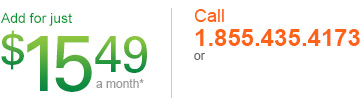
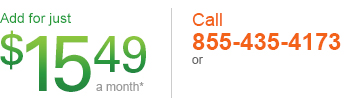
updating the price point graphic
adding dashes

Changed region(s): [[0.0, 0.297, 0.4278, 0.9208], [0.5194, 0.0891, 1.0, 0.6535], [0.0, 0.1188, 0.2139, 0.2673]]

diff --git a/prism/existing/index.html b/prism/existing/index.html
@@ -366,7 +366,7 @@
 					<a href="https://eam.centurylink.com/eam/login.do" target="_blank" clicktrack="ctl|rsd|shop|iptv_retention|pre_id_learn|top|link|position2|my_account">Manage My Account</a>
 				</p>
 
-				<p class="topPhone">Call 1.855.435.4173</p><!--<p class="chatOnline contact"><a href="https://sncare.centurylink.com/netagent/cimlogin.aspx?questid=03E78ACF-231C-4588-B076-CA693E399261&portid=53BB7F04-97AF-4B41-A9C7-C4BF7A5AC5DB" onclick="javascript:window.open(this.href,'Chat','height=550,width=650,left=100,top=50,resizable=no,scrollbars=yes,toolbar=no,status=no');return false;" clicktrack="ctl|rsd|shop|iptv_retention|pre_id_learn|top|link|position3|chat">Chat Online Now</a></p>-->
+				<p class="topPhone">Call 855-435-4173</p><!--<p class="chatOnline contact"><a href="https://sncare.centurylink.com/netagent/cimlogin.aspx?questid=03E78ACF-231C-4588-B076-CA693E399261&portid=53BB7F04-97AF-4B41-A9C7-C4BF7A5AC5DB" onclick="javascript:window.open(this.href,'Chat','height=550,width=650,left=100,top=50,resizable=no,scrollbars=yes,toolbar=no,status=no');return false;" clicktrack="ctl|rsd|shop|iptv_retention|pre_id_learn|top|link|position3|chat">Chat Online Now</a></p>-->
 									<div class="chatBtn" id="chatBtn">
 						<div id="chat-centurylink-residential-customer-support-prism-existing"></div>
 					</div>
@@ -618,7 +618,7 @@
 												<li><span class="left-key">TEC</span><span class="right-key">Typical Energy Consumption</span></li>
 											</ul>
 										</div>
-										<p class="did-you-know-cta">To find out more about any of the items above, <strong>call 1.855.435.4173</strong></p>
+										<p class="did-you-know-cta">To find out more about any of the items above, <strong>call 855-435-4173</strong></p>
 									</div>
 									<div class="corners outsideW cBottom">
 										<span class="corner cLeft">   </span>
@@ -763,7 +763,7 @@
 				<p class="copyright">&copy; 2014 CenturyLink. All Rights Reserved. The name CenturyLink and the pathways logo are trademarks of CenturyLink.</p>
 			</div>
 			<div class="support">
-				<p style="color:#999999;">Call us at: 1.855.435.4173</p>
+				<p style="color:#999999;">Call us at: 855-435-4173</p>
 				<ul class="nav">
 					<li class="first"><a href="http://storelocator.centurylinkapps.com" target="_blank" clicktrack="ctl|rsd|shop|iptv_retention|pre_id_learn|footer|link|position10|store">Find a Store</a></li>
 					<li class="last"><a href="http://www.centurylink.com/Pages/Support/ContactUs/" target="_blank" clicktrack="ctl|rsd|shop|iptv_retention|pre_id_learn|footer|link|position11|contact_us">Contact Us</a></li>
@@ -807,7 +807,7 @@
 				<div class="childWrap">
 					<h2>Enjoy HBO<sup class="special-sup">&reg;</sup>. Anytime. Anywhere.</h2>
 					<h3>Plus, with HBO ON DEMAND<sup class="special-sup">&reg;</sup> and HBO GO<sup class="special-sup">&reg;</sup>, you have<br>access to 14 HBO<sup class="special-sup">&reg;</sup> channels, all in HD.**</h3>
-					<div class="price sixteen99-tfn">Add for just $16.99 a month* Call 1.855.435.4173 to order.</div>
+					<div class="price sixteen99-tfn">Add for just $16.99 a month* Call 855-435-4173 to order.</div>
 					<a href="#ZAM" class="modal-trigger close-color-box" id="prism-hbo-trigger" clicktrack="ctl|rsd|shop|iptv_retention|pre_id_learn|hbo|button|chat">Chat to Order</a>
 					<p class="blurb">HBO<sup class="special-sup">&reg;</sup> gives you hit original series, Hollywood blockbusters, sports and so much more. Plus, you have the ability to enjoy HBO<sup class="special-sup">&reg;</sup> whenever and wherever you want with HBO On Demand<sup class="special-sup">&reg;</sup> and HBO GO<sup class="special-sup">&reg;</sup>, both of which are included when you add HBO<sup class="special-sup">&reg;</sup> to your Prism<sup>&trade;</sup> TV service. So go ahead, make your own schedule. And be sure to catch hit films like <em>The Great Gatsby</em> and <em>Man of Steel</em>, plus HBO&rsquo;s newest original series <em>Silicon Valley</em>.</p>
 					<p class="disclaimer-left">**Subscription to HD service required to view HD programming.<br>HD availability varies by area.</p>
@@ -819,7 +819,7 @@
 				<div class="childWrap">
 					<h2>Take your entertainment to the MAX.</h2>
 					<h3>Enjoy all 12 CINEMAX<sup class="special-sup">&reg;</sup> channels and CINEMAX ON DEMAND<sup class="special-sup">&reg;</sup>.</h3>
-					<div class="price fifteen49-alt2">Add for just $15.49 a month* Call 1.855.435.4173 to order.</div>
+					<div class="price fifteen49-alt2">Add for just $15.49 a month* Call 855-435-4173 to order.</div>
 					<a href="#ZAM" class="modal-trigger close-color-box" id="prism-max-trigger" clicktrack="ctl|rsd|shop|iptv_retention|pre_id_learn|cinemax|button|chat">Chat to Order</a>
 					<p class="blurb">With CINEMAX<sup class="special-sup">&reg;</sup> you get the best Hollywood hits, action-packed original series and behind-the-scenes exclusives &ndash; all in True HD.** From exclusive premieres on the flagship station to first-rate programming on 7 additional genre-focused multiplex channels, CINEMAX<sup class="special-sup">&reg;</sup> delivers more of the entertainment you deserve, including hit movies like <em>The Conjuring</em>.</p>
 					<p class="disclaimer-left">**Subscription to HD service required to view HD programming. HD availability varies by area.</p>
@@ -831,7 +831,7 @@
 				<div class="childWrap">
 					<h2>Great entertainment starts with SHOWTIME<sup class="special-sup">&reg;</sup>.</h2>
 					<h3>Get all 21 SHOWTIME<sup class="special-sup">&reg;</sup> channels*, SHOWTIME Anytime<sup class="special-sup">&reg;</sup>, and SHOWTIME On Demand<sup class="special-sup">&reg;</sup>.</h3>
-					<div class="price fifteen49-alt2">Add for just $15.49 a month* Call 1.855.435.4173 to order.</div>
+					<div class="price fifteen49-alt2">Add for just $15.49 a month* Call 855-435-4173 to order.</div>
 					<a href="#ZAM" class="modal-trigger close-color-box" id="prism-sho-trigger" clicktrack="ctl|rsd|shop|iptv_retention|pre_id_learn|showtime|button|chat">Chat to Order</a>
 					<p class="blurb">If you want edge-of-your-seat entertainment, then you want SHOWTIME. Order now and catch critically acclaimed series like <em>Nurse Jackie</em> and <em>60 Minute Sports</em><sup class="special-sup">&trade;</sup>. And for heart-pounding excitement, tune in for great movies like <em>The Last Exorcism Part II</em> and <em>A Case of You</em>.</p>
 					<p style="font-size:80%;color:#999999;padding-top:10px;line-height:12px;">*18 channels available in HD. Subscription to HD service required to view HD programming. HD availability varies by area.</p>
@@ -843,7 +843,7 @@
 				<div class="childWrap">
 					<h2>Get ready to see STARZ<sup class="special-sup">&reg;</sup>.<br>And more.</h2>
 					<h3>Get all 30 STARZ<sup class="special-sup">&reg;</sup> and ENCORE<sup class="special-sup">&reg;</sup> channels*, STARZ Play<sup class="special-sup">&reg;</sup>, and STARZ<sup class="special-sup">&reg;</sup> and ENCORE<sup class="special-sup">&reg;</sup> On Demand.</h3>
-					<div class="price fifteen49-alt2">Add for just $15.49 a month* Call 1.855.435.4173 to order.</div>
+					<div class="price fifteen49-alt2">Add for just $15.49 a month* Call 855-435-4173 to order.</div>
 					<a href="#ZAM" class="modal-trigger close-color-box" id="prism-starz-trigger" clicktrack="ctl|rsd|shop|iptv_retention|pre_id_learn|starz|button|chat">Chat to Order</a>
 					<p class="blurb">Gather the family together for entertainment overdrive. With STARZ, you can enjoy the hottest original series and over 1,000 different movies a month, like <em>Thor: The Dark World</em> and <em>Blue Jasmine</em>. Plus, thanks to the convenience of STARZ and ENCORE ON DEMAND, you can get instant access to nonstop entertainment, including movies the whole family will love, like <em>Frozen</em>, anywhere.</p>
 					<p style="font-size:80%;color:#999999;padding-top:10px;line-height:12px;">*Twelve channels available in HD. Subscription to HD service required to view HD programming. HD availability varies by area.</p>
@@ -893,7 +893,7 @@
 					<h3>It’s HBO<sup class="special-sup">&reg;</sup>. Anywhere.</h3>
 					<p class="blurb">Access groundbreaking original series, movies like <em>The Heat</em> and <em>The Hangover Part III</em>, sports and more from your favorite devices. So whether you&rsquo;re watching from your laptop, mobile phone, gaming console or smart TV, sit back, relax and enjoy great entertainment on your terms.</p>
 					<p class="orange-cta">
-						Call <strong>1.855.435.4173</strong><br><span class="or">or</span>
+						Call <strong>855-435-4173</strong><br><span class="or">or</span>
 						<a href="#ZAM" class="modal-trigger close-color-box" id="prism-hbo-go-trigger" clicktrack="ctl|rsd|shop|iptv_retention|pre_id_learn|hbo_go|button|chat">Chat to Order</a>
 					</p>
 					<p class="disclaimer-left">Separate channel package subscription charges will apply if not included in TV package selected. All other marks are property of their respective owners. HBO GO<sup class="special-sup">&reg;</sup> included with subscription to HBO<sup class="special-sup">&reg;</sup>.</p>
@@ -907,7 +907,7 @@
 					<h3>It’s CINEMAX<sup class="special-sup">&reg;</sup>. Anywhere.</h3>
 					<p class="blurb">With MAX GO<sup class="special-sup">&reg;</sup> you get access to all CINEMAX<sup class="special-sup">&reg;</sup> programming wherever you are, on any device &ndash; laptop, tablet, smartphone, gaming console or smart TV. That includes recent Hollywood hits like <em>Identity Thief</em> and <em>Beautiful Creatures</em>. Get ready to enjoy the best of CINEMAX<sup class="special-sup">&reg;</sup> &ndash; on the go.</p>
 					<p class="orange-cta">
-						Call <strong>1.855.435.4173</strong><br><span class="or">or</span>
+						Call <strong>855-435-4173</strong><br><span class="or">or</span>
 						<a href="#ZAM" class="modal-trigger close-color-box" id="prism-max-go-trigger" clicktrack="ctl|rsd|shop|iptv_retention|pre_id_learn|max_go|button|chat">Chat to Order</a>
 					</p>
 					<p class="disclaimer-left">Separate channel package subscription charges will apply if not included in TV package selected. All other marks are property of their respective owners. MAX GO<sup class="special-sup">&reg;</sup> included with subscription to CINEMAX<sup class="special-sup">&reg;</sup>.</p>
